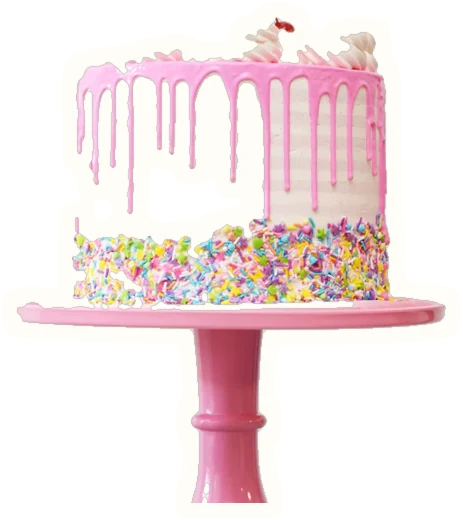
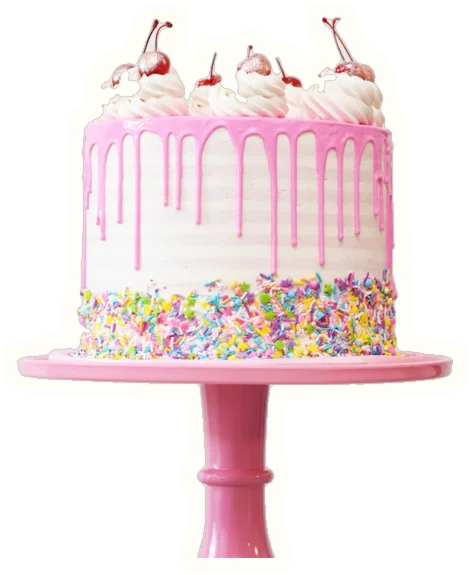
Fix the drip cake sticker: the whole cake, no holes
The sticker's cut-out treated the cake's white icing and cream swirls as part of the grey
wall behind it, so the cake had holes in its body and lost its top. collage.py's cutout
now takes `neutral` (only greys count as background, so warm or tinted whites stay) and
`fill` (gaps inside the outline are kept). The drip cake is re-cut with both; the other
stickers are unchanged. Shows on How to order (step 1) and Our story.

diff --git a/apps/web/scripts/collage.py b/apps/web/scripts/collage.py
@@ -22,12 +22,17 @@ CHERRY_INK = (148, 25, 57)  # --bbm-color-cherry-700
 COCOA_INK = (50, 24, 11)  # --bbm-color-brown-900
 
 
-def flood_background(a: np.ndarray, tol: int) -> np.ndarray:
-    """True where a pixel is part of the plain background touching the edges."""
+def flood_background(a: np.ndarray, tol: int, neutral: int | None = None) -> np.ndarray:
+    """True where a pixel is part of the plain background touching the edges.
+
+    With `neutral`, only greys count as background (channels within `neutral` of each other), so warm or tinted
+    whites, like icing in front of a grey wall, stay in the cut-out."""
     h, w, _ = a.shape
     border = np.concatenate([a[0], a[-1], a[:, 0], a[:, -1]])
     bg = np.median(border, axis=0)
     cand = np.abs(a - bg).max(axis=2) < tol
+    if neutral is not None:
+        cand &= (a.max(axis=2) - a.min(axis=2)) < neutral
     mask = np.zeros((h, w), bool)
     q = deque()
     for x in range(w):
@@ -79,15 +84,24 @@ def keep_large(fg: np.ndarray, min_share: float) -> np.ndarray:
     return np.isin(labels, list(keep))
 
 
-def cutout(src: str, crop=(0, 0, 1, 1), tol=24, min_share=0.08, size=900) -> Image.Image:
+def fill_holes(fg: np.ndarray) -> np.ndarray:
+    """Fills gaps inside the cut-out: anything not reachable from the edges through background is kept."""
+    return ~flood_background(np.where(fg[..., None], 255, 0).astype(np.int16).repeat(3, axis=2), 1)
+
+
+def cutout(
+    src: str, crop=(0, 0, 1, 1), tol=24, min_share=0.08, size=900, neutral: int | None = None, fill=False
+) -> Image.Image:
     im = Image.open(ROOT / src).convert("RGB")
     w, h = im.size
     im = im.crop((int(crop[0] * w), int(crop[1] * h), int(crop[2] * w), int(crop[3] * h)))
     im.thumbnail((size, size))
     a = np.asarray(im).astype(np.int16)
-    fg = ~flood_background(a, tol)
+    fg = ~flood_background(a, tol, neutral)
     fg_img = Image.fromarray((fg * 255).astype(np.uint8)).filter(ImageFilter.MedianFilter(7))
     fg = keep_large(np.asarray(fg_img) > 128, min_share)
+    if fill:
+        fg = fill_holes(fg)
     alpha = Image.fromarray((fg * 255).astype(np.uint8)).filter(ImageFilter.GaussianBlur(1.1))
     alpha = alpha.point(lambda v: 255 if v > 120 else 0).filter(ImageFilter.GaussianBlur(0.7))
     rgba = im.convert("RGBA")
@@ -202,7 +216,8 @@ def main():
     cuts = {
         "cherry-cake": cutout("stock/home-hero.webp", crop=(0.12, 0, 1, 0.93), tol=24, min_share=0.05),
         "gift-box": cutout("stock/home-gift.webp", tol=24, min_share=0.05),
-        "drip-cake": cutout("stock/home-about.webp", crop=(0, 0, 1, 0.76), tol=22, min_share=0.2),
+        # White icing on a grey wall: only neutral greys are background, and gaps inside the cake are filled
+        "drip-cake": cutout("stock/home-about.webp", crop=(0, 0, 1, 0.76), tol=22, min_share=0.2, neutral=8, fill=True),
         "jar-cakes": cutout("stock/treat-jar-cakes.webp", tol=26, min_share=0.2),
     }
     for name, cut in cuts.items():
